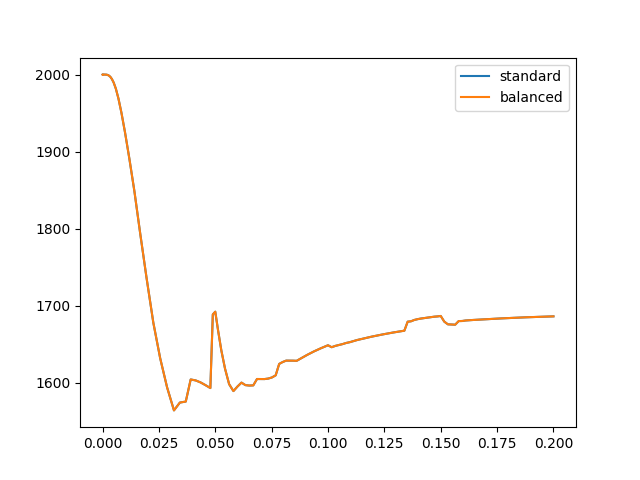
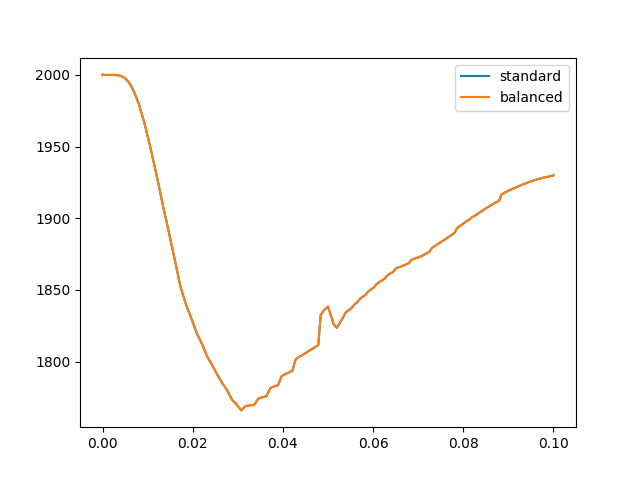
sketchy non-blocking optimization but works

diff --git a/src/thermophysicalModels/chemistryModel/loadBalancing/LoadBalancerBase.H b/src/thermophysicalModels/chemistryModel/loadBalancing/LoadBalancerBase.H
@@ -60,11 +60,22 @@ public:
             nProblems; // number of problems which this rank sends/receives
     };
 
+
+    struct BalancerStateNew{
+        std::vector<label> sources;
+        std::vector<label> destinations;
+        std::vector<label> nProblems;
+        label nRemaining;
+
+    };
+
+
     template <class T>
     using buffer_t = DynamicList<DynamicList<T>>;
 
 private:
     BalancerState state_; // the current state of the object
+    BalancerStateNew stateNew_;
 
 public:
     LoadBalancerBase() = default;
@@ -78,6 +89,33 @@ public:
     ///@param problems Problems of this process
     ///
     virtual void updateState(const DynamicList<ChemistryProblem>& problems) = 0;
+
+
+    void convertNew(){
+
+        std::vector<label> sources;
+        for (size_t i = 0; i < state_.sources.size() - 1; ++i){
+            sources.push_back(state_.sources[i]);
+        }
+
+        std::vector<label> destinations;
+        for (size_t i = 0; i < state_.destinations.size() - 1; ++i){
+            destinations.push_back(state_.destinations[i]);
+        }
+
+        std::vector<label> nProblems;
+        for (size_t i = 0; i < state_.nProblems.size() - 1; ++i){
+            nProblems.push_back(state_.nProblems[i]);
+        }
+
+        label nRemaining = state_.nProblems.back(); 
+
+        stateNew_.sources = sources;
+        stateNew_.destinations = destinations;
+        stateNew_.nProblems = nProblems;
+        stateNew_.nRemaining = nRemaining;
+
+    }
 
     ///
     ///@brief Computes the mean of the input loads
@@ -139,6 +177,13 @@ public:
     {
         return state_;
     }
+
+    const BalancerStateNew& getStateNew() const
+    {
+        return stateNew_;
+    }
+
+
 
     ///
     ///@brief Given a list of values splits them evenly between the
@@ -256,6 +301,65 @@ public:
         const buffer_t<ET>&       send_buffer,
         const std::vector<label>& sources,
         const std::vector<label>& destinations);
+
+
+
+    
+    template <class ET>
+    static void sendCall(
+        const buffer_t<ET>&       send_buffer,
+        const std::vector<label>& destinations,
+        PstreamBuffers& pBufs)
+    {
+
+        if(Pstream::parRun())
+        {
+            for(label i = 0; i < label(destinations.size()); ++i)
+            {
+                UOPstream send(destinations[i], pBufs);
+                send << send_buffer[i];
+            }
+            pBufs.finishedSends();
+        }    
+
+
+    }
+
+
+    template <class ET>
+    static void recvCall(
+        buffer_t<ET>&       recv_buffer,
+        const std::vector<label>& sources,
+        PstreamBuffers& pBufs)
+    {
+        if(Pstream::parRun()){
+            
+            recv_buffer.setSize(sources.size());
+            for(label i = 0; i < label(sources.size()); ++i)
+            {
+                UIPstream recv(sources[i], pBufs);
+                recv >> recv_buffer[i];
+            }
+        }
+
+    }
+
+
+
+
+    template<class T>
+    DynamicList<T> getRemaining(const DynamicList<T>& values) {
+        DynamicList<T> remaining(stateNew_.nRemaining, T());
+    
+        std::copy(values.end() - stateNew_.nRemaining,
+             values.end(),
+             remaining.begin()
+        );
+
+        return remaining;
+    }
+
+
 };
 
 template <class T>
@@ -277,30 +381,37 @@ LoadBalancerBase::buffer_t<T>
 LoadBalancerBase::balance(const DynamicList<T>& values) const
 {
 
-    return sendRecv<T, Pstream::commsTypes::nonBlocking>(
-        getSendBuffer(values), state_.sources, state_.destinations);
+    auto sendBuffer = partition(values, stateNew_.nProblems);
+
+    auto recvBuffer = sendRecv<T, Pstream::commsTypes::nonBlocking>(
+        sendBuffer, stateNew_.sources, stateNew_.destinations);
+
+    return recvBuffer;
+    
+
+    //return sendRecv<T, Pstream::commsTypes::nonBlocking>(
+    //    getSendBuffer(values), state_.sources, state_.destinations);
 }
+
+
+
+
 
 template <class T>
 LoadBalancerBase::buffer_t<T>
 LoadBalancerBase::unbalance(const buffer_t<T>& values) const
 {
-
+    
+     
     return sendRecv<T, Pstream::commsTypes::nonBlocking>(
-        values, state_.destinations, state_.sources);
+        values, stateNew_.destinations, stateNew_.sources);
 }
 
 template <class T>
 LoadBalancerBase::buffer_t<T>
 LoadBalancerBase::getSendBuffer(const DynamicList<T>& values) const
 {
-
-    if(state_.destinations.size() == 1)
-    {
-        return buffer_t<T>(1, values);
-    }
-
-    return partition(values, state_.nProblems);
+    return partition(values, stateNew_.nProblems);
 }
 
 template <class T>
@@ -310,6 +421,24 @@ LoadBalancerBase::partition(
 {
 
     //TODO: dont make copies, use subList instead
+
+    buffer_t<T> ret;
+
+    label start = 0;
+    for (const auto& count : subsizes){
+        label end = start + count;
+        DynamicList<T> slice(count, T());
+        std::copy(
+            std::begin(bigArray) + start,
+            std::begin(bigArray) + end,
+            std::begin(slice)
+        );
+        ret.append(slice);
+    }
+
+    return ret;
+
+    /*
 
     runtime_assert(
         checkSizes(bigArray, subsizes),
@@ -339,8 +468,8 @@ LoadBalancerBase::partition(
             std::begin(ret[i]));
         start = end;
     }
+    */
 
-    return ret;
 }
 
 template <class T>
@@ -379,6 +508,8 @@ LoadBalancerBase::sendRecv(
 
     if(Pstream::parRun())
     {
+
+    
         PstreamBuffers pBufs(CT);
 
         for(label i = 0; i < label(destinations.size()); ++i)
@@ -397,6 +528,7 @@ LoadBalancerBase::sendRecv(
         }
 
         return recv_buffers;
+    
     }
 
     return send_buffer;

diff --git a/src/thermophysicalModels/chemistryModel/chemistryModel/loadBalancedChemistryModel/LoadBalancedChemistryModel.C b/src/thermophysicalModels/chemistryModel/chemistryModel/loadBalancedChemistryModel/LoadBalancedChemistryModel.C
@@ -95,6 +95,89 @@ scalar LoadBalancedChemistryModel<ReactionThermo, ThermoType>::solve(
         return great;
     }
 
+    
+
+    DynamicList<ChemistryProblem> allProblems = getProblems(deltaT);
+
+
+    balancer_.updateState(allProblems);
+    
+    balancer_.printState();
+
+    auto state = balancer_.getStateNew();
+
+    problem_buffer_t problemsIWillSend = balancer_.getSendBuffer(allProblems);
+
+    PstreamBuffers pBufs(Pstream::commsTypes::nonBlocking);
+    balancer_.sendCall(problemsIWillSend, state.destinations, pBufs);
+
+    DynamicList<ChemistryProblem> ownProblems = balancer_.getRemaining(allProblems);
+    problem_buffer_t ownBuffer; ownBuffer.append(ownProblems);
+    solution_buffer_t ownSolutions = solveBuffer(ownBuffer);
+    
+    problem_buffer_t guestProblems;
+    balancer_.recvCall(guestProblems, state.sources, pBufs);
+    
+    solution_buffer_t guestSolutions = solveBuffer(guestProblems);
+
+    PstreamBuffers pBufs2(Pstream::commsTypes::nonBlocking);
+    balancer_.sendCall(guestSolutions, state.sources, pBufs2);
+
+    solution_buffer_t incomingSolutions;
+    balancer_.recvCall(incomingSolutions, state.destinations, pBufs2);
+
+
+
+    incomingSolutions.append(ownSolutions);
+
+    return updateReactionRates(incomingSolutions);
+
+
+    /*
+    template <class ET>
+    static void sendCall(
+        const buffer_t<ET>&       send_buffer,
+        const std::vector<label>& destinations,
+        PstreamBuffers& pBufs)
+    */
+
+    //sendBuffer = slice_sendProblems(allProblems)
+    //callSends()
+    //myProblems = getMyProblems(allProblems)
+    //mySolutions = solveMyProblems(myProblems)
+    //updateReactionRates(mySolutions)
+    //guestProblems = callReceive()
+    //guestSolutions = solveGuest(guestProblems)
+    //callSends(guestSolutions)
+    //IS THERE ANY WORK THAT COULD BE DONE HERE?
+    //myIncomingSolutions = callReceives(guestSolutions)
+    //updateReactionRates(myIncomingSolutions)
+
+
+    /*
+    problem_buffer_t guestProblems = balancer_.balance(allProblems);
+
+    DynamicList<ChemistryProblem> ownProblems = balancer_.getRemaining(allProblems);
+    solution_buffer_t guestSolutions = solveBuffer(guestProblems);
+
+    problem_buffer_t ownBuffer; ownBuffer.append(ownProblems);
+    solution_buffer_t ownSolutions = solveBuffer(ownBuffer);
+
+
+    solution_buffer_t incomingSolutions = balancer_.unbalance(guestSolutions);
+
+
+
+
+
+    incomingSolutions.append(ownSolutions[0]);
+
+    return updateReactionRates(incomingSolutions);
+    */
+
+
+    /*
+
     clockTime timer;
 
     timer.timeIncrement();
@@ -127,6 +210,9 @@ scalar LoadBalancedChemistryModel<ReactionThermo, ThermoType>::solve(
     Pstream::waitRequests();
 
     return updateReactionRates(my_solutions);
+
+    */
+    
 }
 
 template <class ReactionThermo, class ThermoType>

diff --git a/src/thermophysicalModels/chemistryModel/chemistrySolver/pexChemistrySolvers.C b/src/thermophysicalModels/chemistryModel/chemistrySolver/pexChemistrySolvers.C
@@ -84,13 +84,14 @@ namespace Foam
     forCommonGases(defineChemistrySolvers, psiReactionThermo);
     forCommonGases(defineChemistrySolvers, rhoReactionThermo);
 
-    forCommonGases(makeChemistrySolvers, noChemistrySolver, psiReactionThermo);
+    /*forCommonGases(makeChemistrySolvers, noChemistrySolver, psiReactionThermo);
     forCommonGases(makeChemistrySolvers, noChemistrySolver, rhoReactionThermo);
     forCommonGases(makeChemistrySolvers, EulerImplicit, psiReactionThermo);
-    forCommonGases(makeChemistrySolvers, EulerImplicit, rhoReactionThermo);
+    forCommonGases(makeChemistrySolvers, EulerImplicit, rhoReactionThermo);*/
     forCommonGases(makeChemistrySolvers, ode, psiReactionThermo);
     forCommonGases(makeChemistrySolvers, ode, rhoReactionThermo);
 
+    /*
     //liquids
     forCommonLiquids(defineChemistrySolvers, rhoReactionThermo);
 
@@ -104,6 +105,8 @@ namespace Foam
     forPolynomials(makeChemistrySolvers, noChemistrySolver, rhoReactionThermo);
     forPolynomials(makeChemistrySolvers, EulerImplicit, rhoReactionThermo);
     forPolynomials(makeChemistrySolvers, ode, rhoReactionThermo);
+
+    */
 
 
 

diff --git a/src/thermophysicalModels/chemistryModel/loadBalancing/LoadBalancer.C b/src/thermophysicalModels/chemistryModel/loadBalancing/LoadBalancer.C
@@ -38,6 +38,8 @@ LoadBalancer::updateState(
     auto info       = operationsToInfo(operations, problems, myLoad);
 
     setState(info);
+
+    convertNew();
 }
 
 LoadBalancerBase::BalancerState
